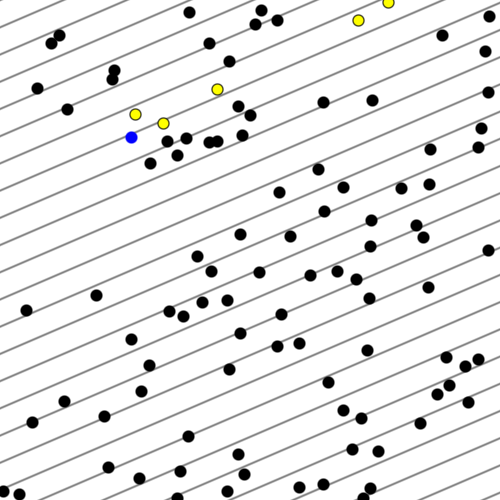
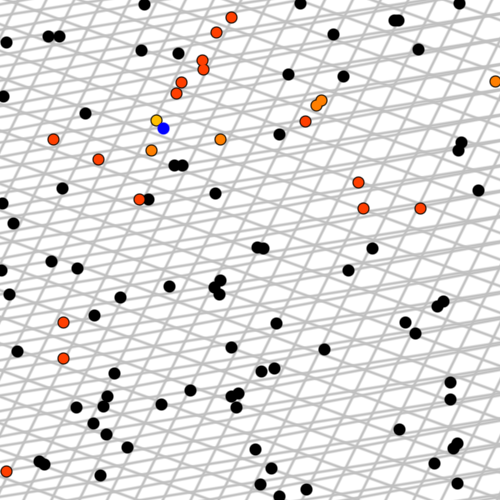
some progress

diff --git a/main.cpp b/main.cpp
@@ -1,8 +1,12 @@
 // Configurable settings
-#define DIMENSION() 2      // dimensionality of the data points
-#define NUMPOINTS() 100    // the number of randomly generated (white noise) data points
-#define HASHCOUNT() 1      // how many hashes are done for each point
-#define POINTDOMAIN() 10   // the coordinates go from - this value to + this value
+#define DIMENSION()    2      // dimensionality of the data points
+#define NUMPOINTS()    100    // the number of randomly generated (white noise) data points
+#define HASHCOUNT()    4      // how many hashes are done for each point
+#define MINHASHCOUNT() 0      // the minimum number of hash collisions that must occur for a point to be considered at all close
+#define POINTDOMAIN()  10     // the coordinates go from - this value to + this value
+
+#define IMAGEWIDTH() 500
+#define IMAGEHEIGHT() 500
 
 // TODO: tune HASHCOUNT() and the other parameters!
 
@@ -196,7 +200,7 @@ void GeneratePointHashDatas_WhiteNoise(std::array<PointHashData, HASHCOUNT()>& h
         p.rotation = { cosTheta, -sinTheta,
                        sinTheta,  cosTheta };
 
-        p.offsetX = 0.0f;// dist_offset(RNG());
+        p.offsetX = dist_offset(RNG());
     }
 }
 
@@ -235,7 +239,7 @@ void GeneratePointHashDatas_Uniform(std::array<PointHashData, HASHCOUNT()>& hash
         p.rotation = { cosTheta, -sinTheta,
                        sinTheta,  cosTheta };
 
-        p.offsetX = 0.0f;// percentY;
+        p.offsetX = percentY;
     }
 }
 
@@ -295,23 +299,21 @@ void DrawHashBuckets(std::vector<uint8>& pixels, int imageWidth, int imageHeight
     uint8* pixel = pixels.data();
     for (int iy = 0; iy < imageHeight; ++iy)
     {
+        float posY = Lerp(-float(POINTDOMAIN()), float(POINTDOMAIN()), float(iy) / float(imageHeight));
         for (int ix = 0; ix < imageWidth; ++ix)
         {
+            float posX = Lerp(-float(POINTDOMAIN()), float(POINTDOMAIN()), float(ix) / float(imageHeight));
+
             // transform pixel into the hash bucket space
-            TPoint rawPoint = {float(ix), float(iy)};
+            TPoint rawPoint = {float(posX), float(posY)};
             TPoint rotatedPoint = Multiply(rawPoint, pointHashData.rotation);
             rotatedPoint[0] += pointHashData.offsetX;
 
-            // figure out the distance from this rotated point to the edges of the hash bucket
-            float cellPosX;
-            if (rotatedPoint[0] < 0.0f)
-                cellPosX = cellSize - fmodf(fabsf(rotatedPoint[0]) + 0.5f, cellSize);
-            else
-                cellPosX = fmodf(rotatedPoint[0] + 0.5f, cellSize);
-            float distance = cellSize / 2.0f - fabsf(cellPosX - cellSize / 2.0f);
+            float distX = std::fmodf(fabsf(rotatedPoint[0]), 1.0f);
+            float distance = 0.5f - fabsf(distX - 0.5f);
 
             // draw the hash bucket lines
-            float alpha = SmoothStep(distance, 2.0f, 0.0f);
+            float alpha = SmoothStep(distance * float(POINTDOMAIN()) * 2.0f, 2.0f, 0.0f);
             pixel[0] = Lerp(pixel[0], R, alpha);
             pixel[1] = Lerp(pixel[1], G, alpha);
             pixel[2] = Lerp(pixel[2], B, alpha);
@@ -329,8 +331,8 @@ void ReportQueryAsImage(const LHS& lhs, const TPoint& queryPoint, const std::uno
     char fileName[256];
     sprintf_s(fileName, "out/%s.png", name);
 
-    int width = 500;
-    int height = 500;
+    int width = IMAGEWIDTH();
+    int height = IMAGEHEIGHT();
     int circleRadius = int(float(width) / 100.0f);
     int colorCircleRadius = std::min(int(float(width) / 100.0f * 0.9f), circleRadius - 1);
 
@@ -343,7 +345,7 @@ void ReportQueryAsImage(const LHS& lhs, const TPoint& queryPoint, const std::uno
     for (int hashIndex = 0; hashIndex < HASHCOUNT(); ++hashIndex)
     {
         const PointHashData& pointHashData = lhs.GetPointHashData(hashIndex);
-        DrawHashBuckets(pixels, width, height, float(width) * 0.5f / float(POINTDOMAIN()), pointHashData, 128, 128, 128);
+        DrawHashBuckets(pixels, width, height, float(width) * 0.5f / float(POINTDOMAIN()), pointHashData, 192, 192, 192);
     }
 
     // draw all the points as black dots
@@ -364,6 +366,9 @@ void ReportQueryAsImage(const LHS& lhs, const TPoint& queryPoint, const std::uno
     // draw the results based on their match count
     for (auto it : results)
     {
+        if (it.second < MINHASHCOUNT())
+            continue;
+
         TPoint p = points[(uint32)it.first];
 
         for (float& f : p)
@@ -375,7 +380,7 @@ void ReportQueryAsImage(const LHS& lhs, const TPoint& queryPoint, const std::uno
         int x = int(p[0] * float(width - 1) + 0.5f);
         int y = int(p[1] * float(height - 1) + 0.5f);
 
-        float percentMatched = float(it.second) / float(HASHCOUNT());
+        float percentMatched = (float(it.second) - float(MINHASHCOUNT())) / float(HASHCOUNT() - MINHASHCOUNT());
         uint8 color = uint8(percentMatched * 255.0f);
 
         DrawCircle(pixels, width, height, x, y, colorCircleRadius, 255, color, 0);
@@ -407,7 +412,7 @@ void ReportQuery (const LHS& lhs, const TPoint& queryPoint, const std::vector<TP
     std::unordered_map<PointID, int> results;
     lhs.Query(queryPoint, results);
 
-    for (int hashMatchCount = HASHCOUNT(); hashMatchCount >= 1; --hashMatchCount)
+    for (int hashMatchCount = HASHCOUNT(); hashMatchCount >= MINHASHCOUNT(); --hashMatchCount)
     {
         bool foundMatch = false;
         for (auto it = results.begin(); it != results.end(); ++it)
@@ -471,10 +476,10 @@ int main(int argc, char** argv)
 /*
 
 TODO:
-* make the offset work with grid drawing. I think it has something to do with how we floor it when we use it for points so it's a randomized rounding? dunno. also seems to maybe happen when the point is a negative number?
-* need a minimum hash count i think. make a #define
+* test the offset specifically, with 1 bucket and an offset. make sure it's happy :)
+* the uniform generation sucks. reconsider it.
+? are the buckets too small? i think they might be... instead of having the domain thing for points, could have a bucket size scale.
 * maybe an option to color cells based on how many hash collisions they have with the query point
-? is the grid line at 0 thinner? i think it is... why?
 
 * do we need the full matrix? i don't think so, if we are only takiung the resulting x component!
  * maybe we don't care
@@ -487,8 +492,7 @@ Tests:
 * compare vs linear search to get ground truth
 
 * Some way to gather stats, but also want to make diagrams i think. Maybe some animated like the other blog post does?
-
-maybe MATCHHASHCOUNT should be a parameter to a point query function
+* and maybe calculate mean and variance of cell size if you can
 
 ----- LATER -----
 
